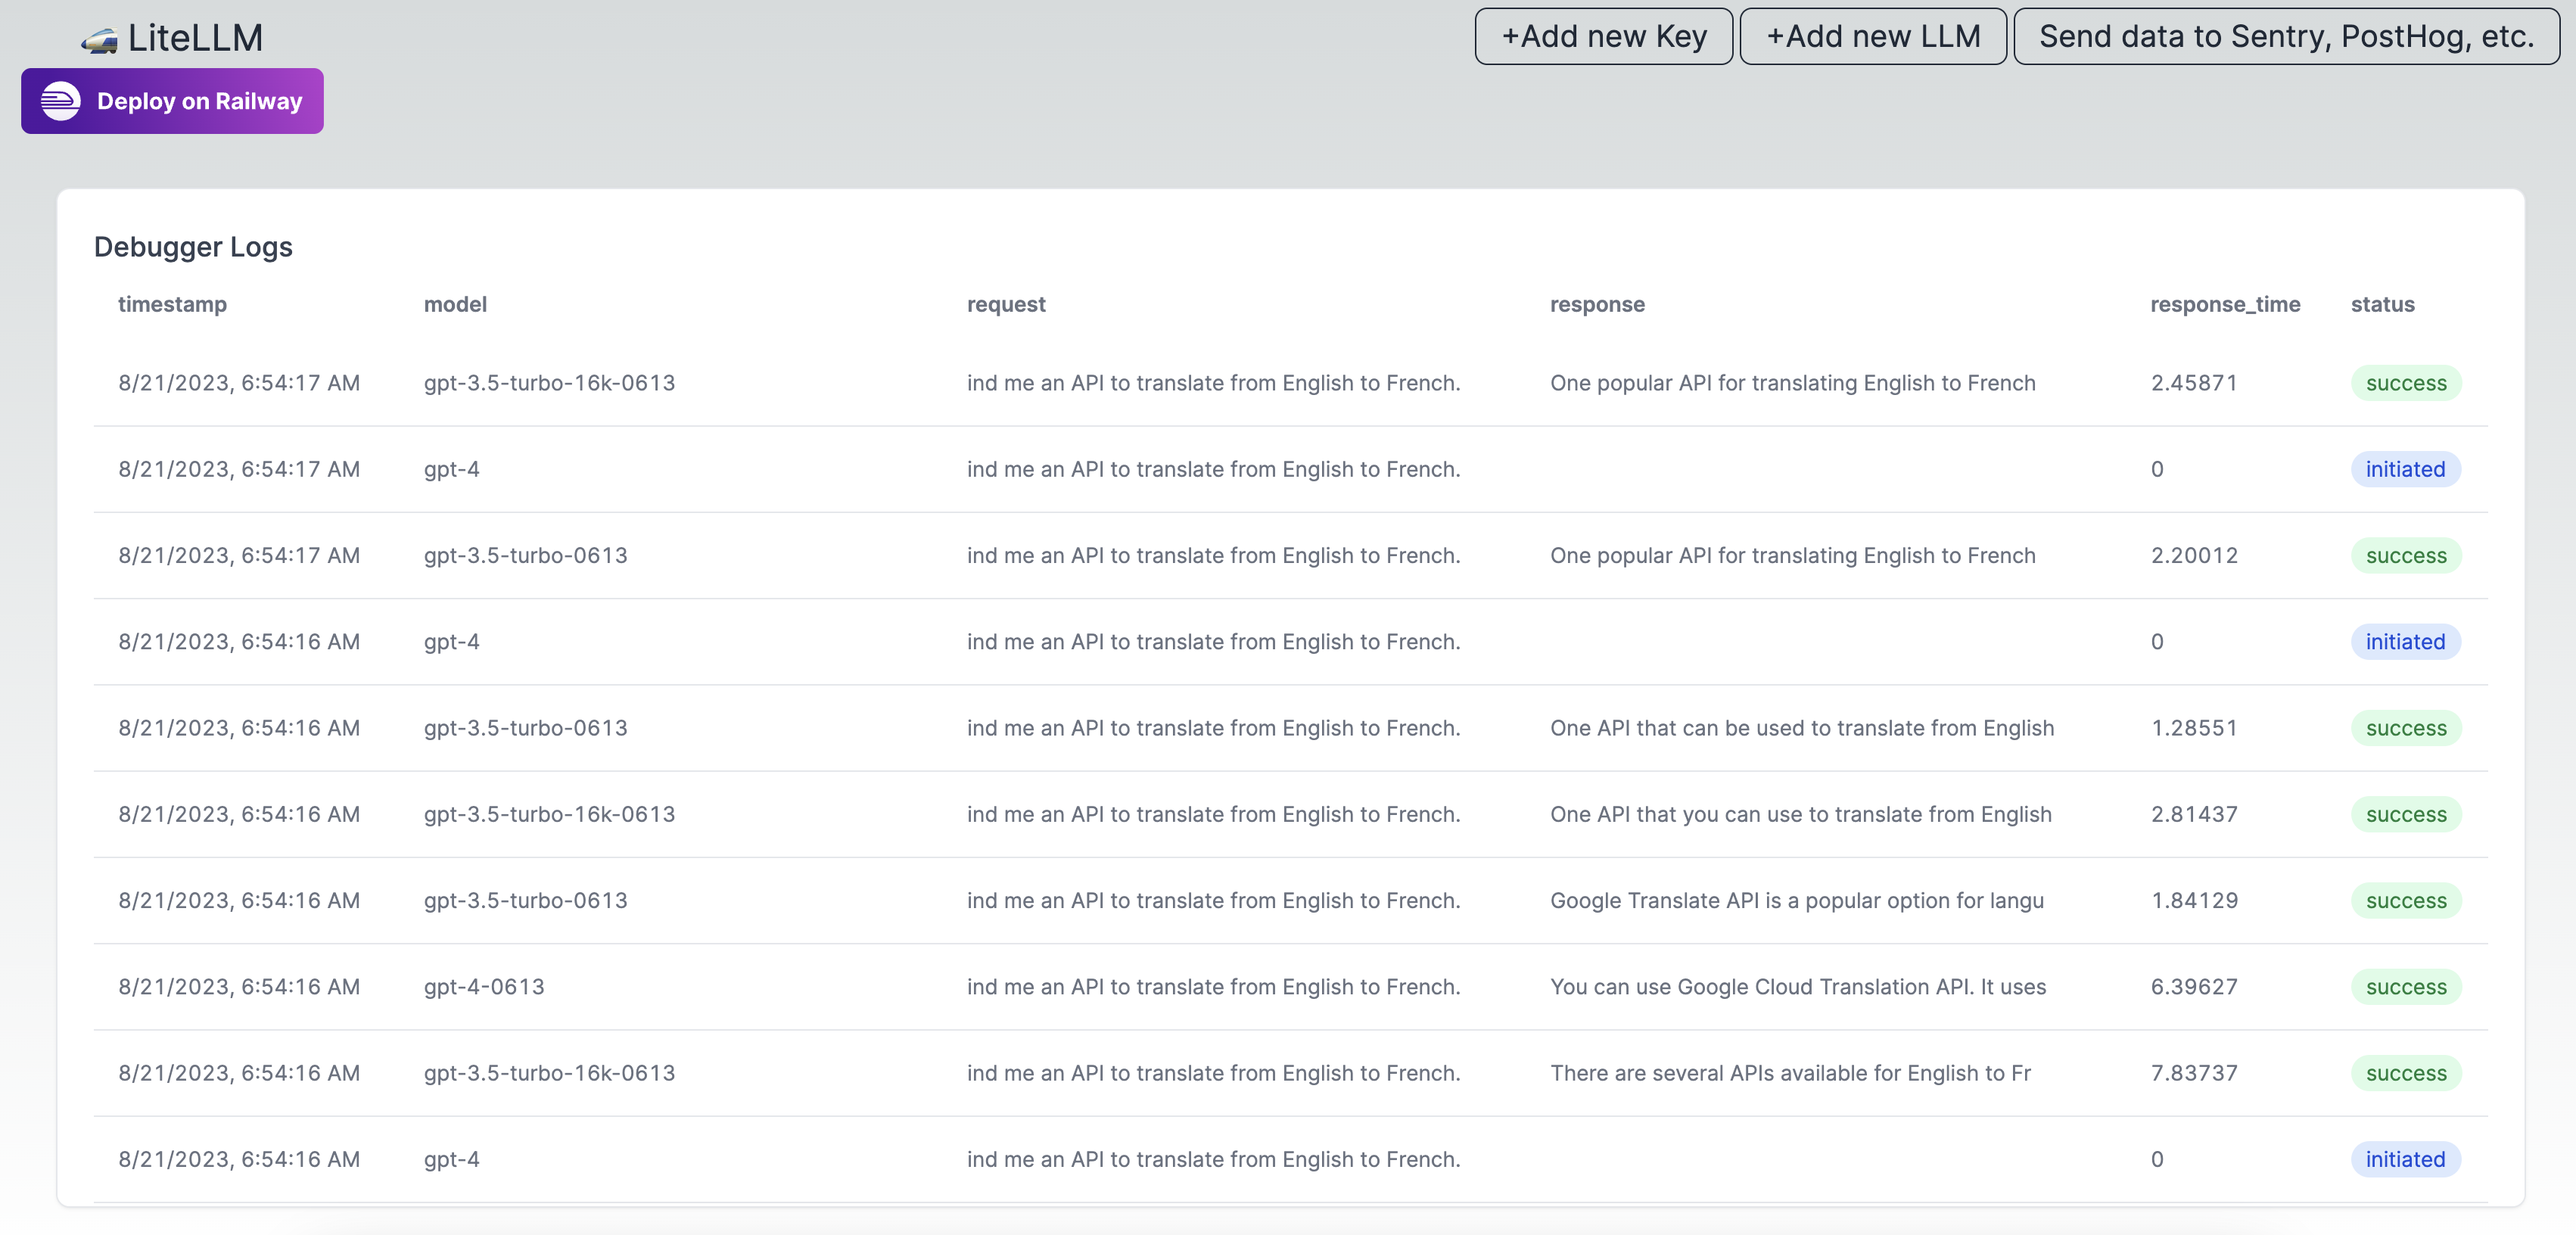
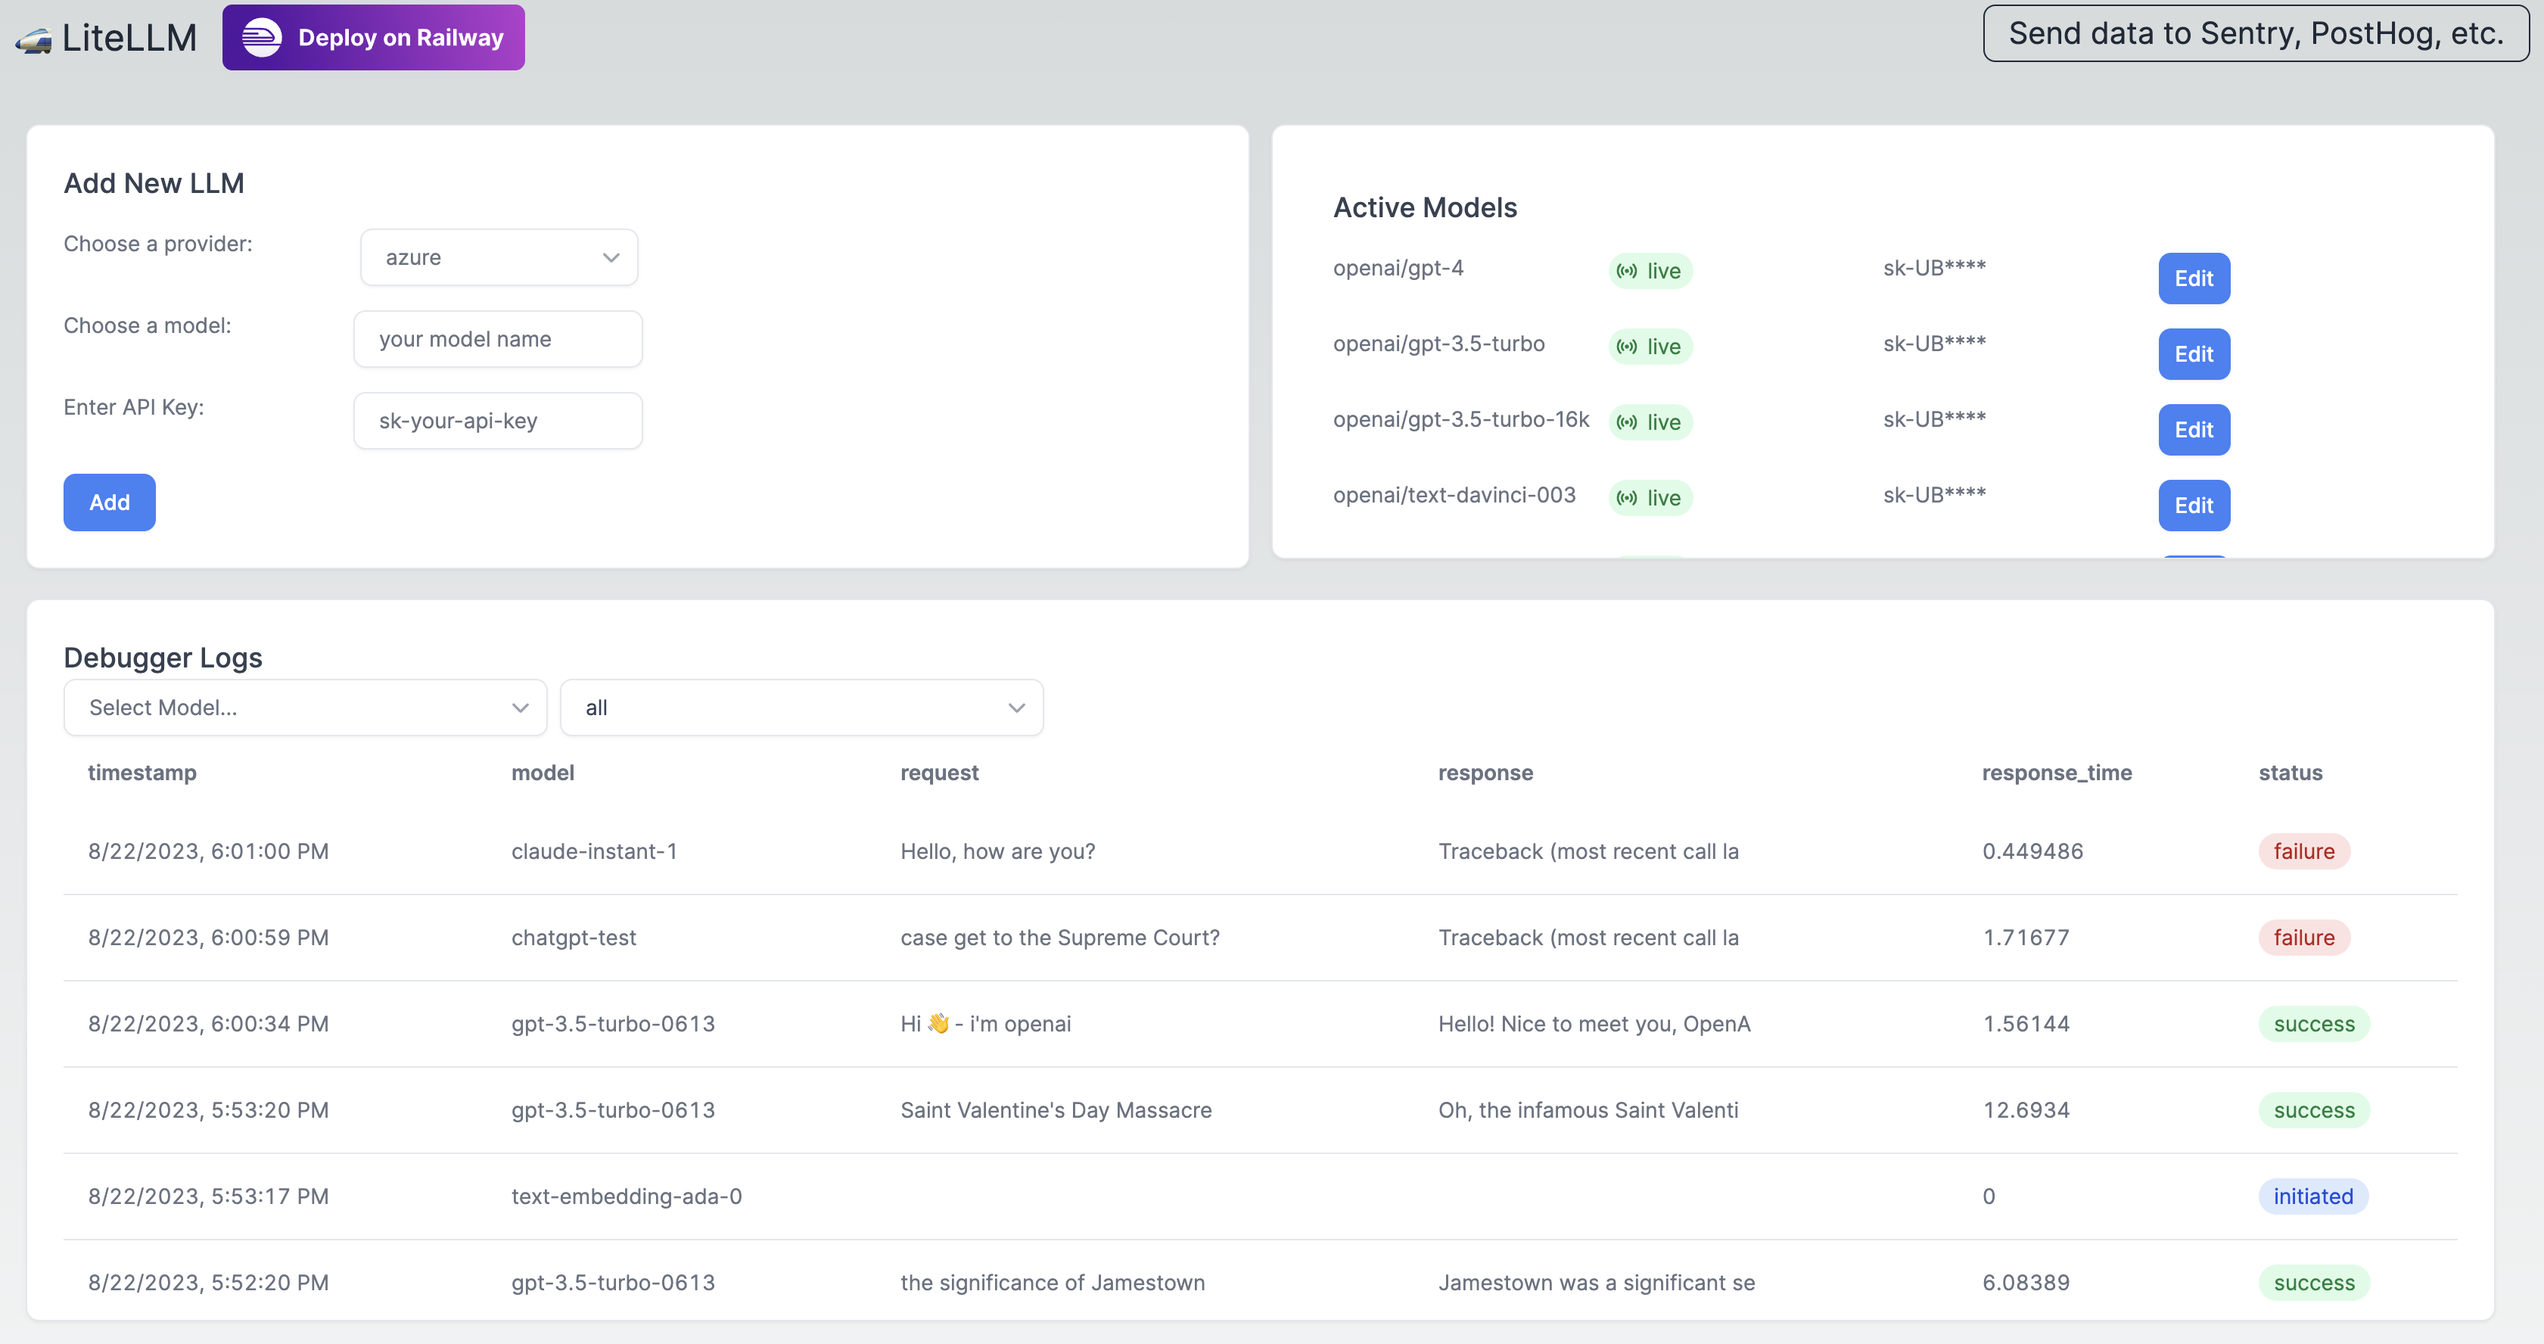
updating docs

diff --git a/docs/my-website/docs/debugging/hosted_debugging.md b/docs/my-website/docs/debugging/hosted_debugging.md
@@ -1,42 +1,31 @@
 import Image from '@theme/IdealImage';
 
 # Debugging Dashboard
-LiteLLM offers a free hosted debugger UI for your api calls (https://admin.litellm.ai/). Useful if you're testing your LiteLLM server and need to see if the API calls were made successfully.
+LiteLLM offers a free UI to debug your calls + add new models at (https://admin.litellm.ai/). This is useful if you're testing your LiteLLM server and need to see if the API calls were made successfully **or** want to add new models without going into code. 
 
 **Needs litellm>=0.1.438***
 
-You can enable this setting `litellm.debugger=True`.
+## Setup
+
+Once created, your dashboard is viewable at - `admin.litellm.ai/<your_email>` [👋 Tell us if you need better privacy controls](https://calendly.com/d/4mp-gd3-k5k/berriai-1-1-onboarding-litellm-hosted-version?month=2023-08)
+
+You can set your user email in 2 ways.  
+- By setting it on the module - `litellm.email=<your_email>`.
+- By setting it as an environment variable - `os.environ["LITELLM_EMAIL"] = "your_email"`.
 
 <Image img={require('../../img/dashboard.png')} alt="Dashboard" />
 
 See our live dashboard 👉 [admin.litellm.ai](https://admin.litellm.ai/)
 
-## Setup
-
-By default, your dashboard is viewable at `admin.litellm.ai/<your_email>`. 
-
-```
-import litellm, os 
-
- ## Set your email
- os.environ["LITELLM_EMAIL"] = "your_user_email"
- 
-## Set debugger to true
-litellm.debugger = True
-```
 
 ## Example Usage
 
 ```
  import litellm
  from litellm import embedding, completion
- import os 
-
- ## Set ENV variable 
- os.environ["LITELLM_EMAIL"] = "your_email"
  
- ## Set debugger to true
- litellm.debugger = True
+ ## Set your email
+ litellm.email = "test_email@test.com"
 
  user_message = "Hello, how are you?"
  messages = [{ "content": user_message,"role": "user"}]
